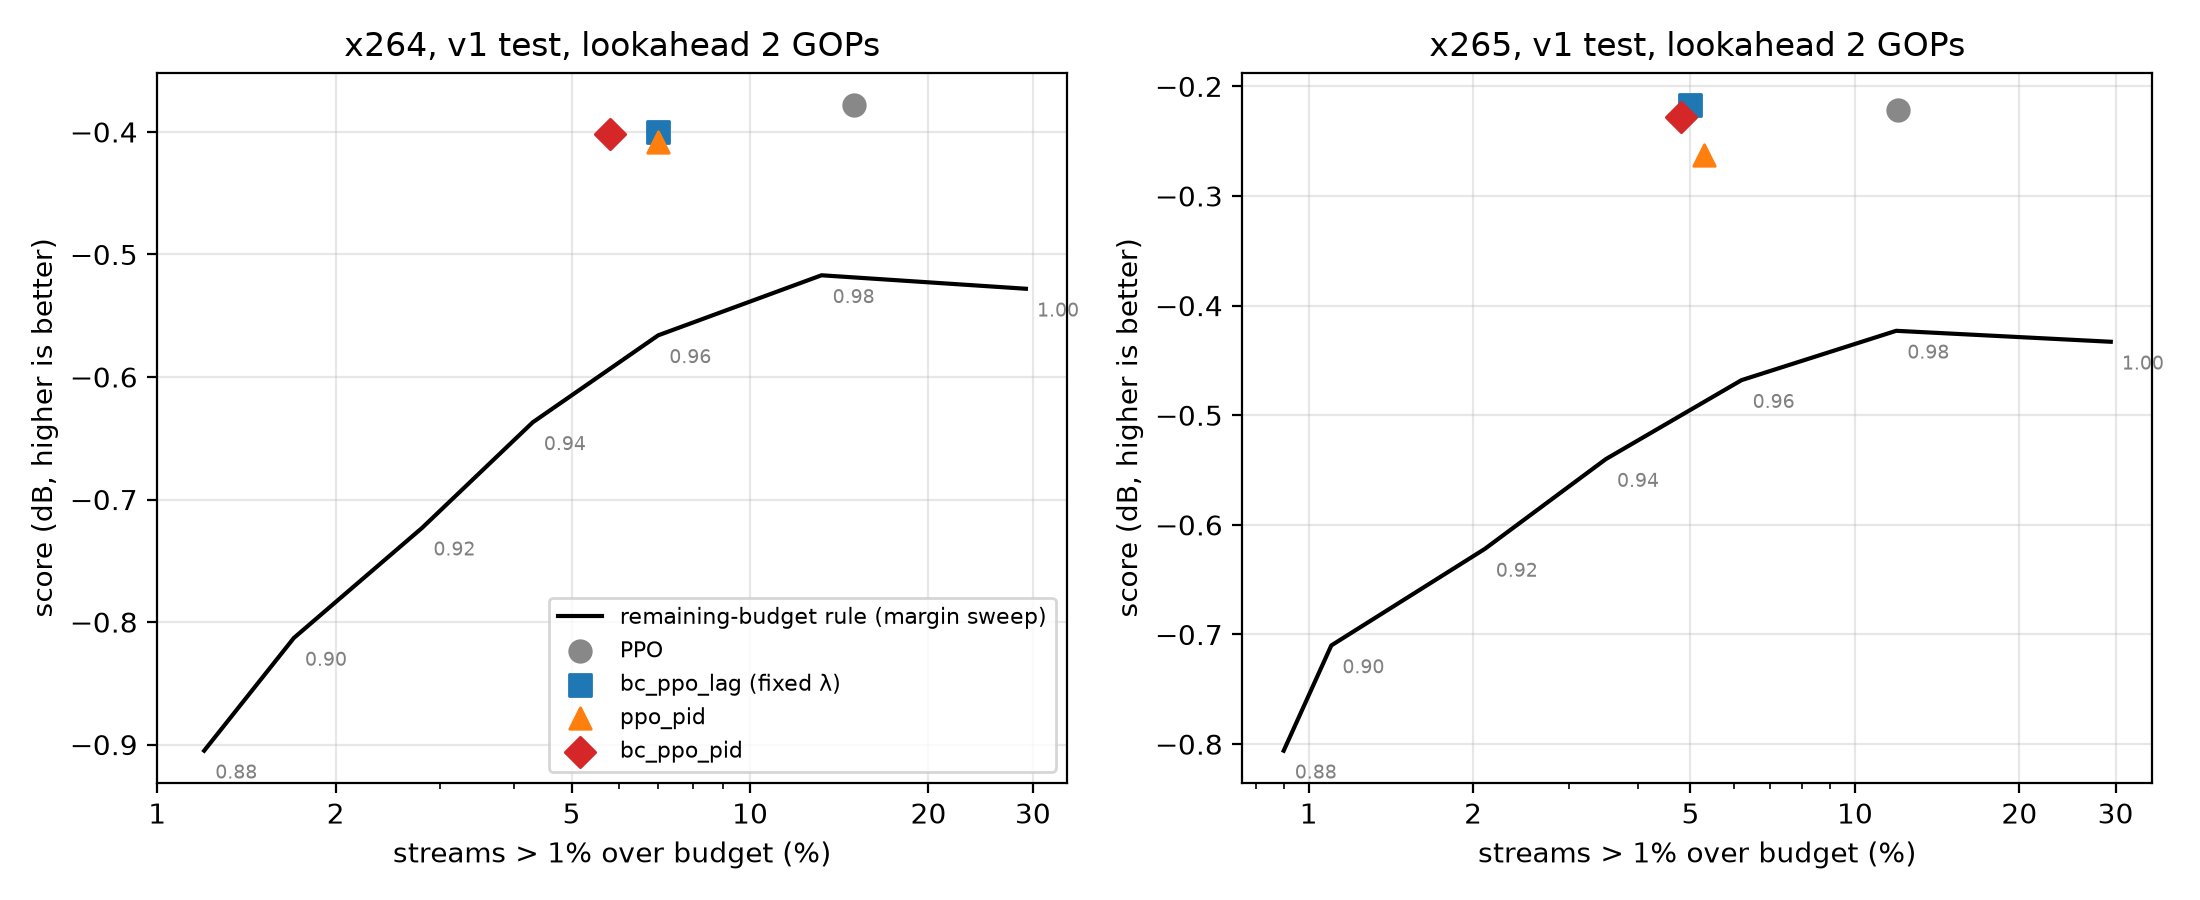
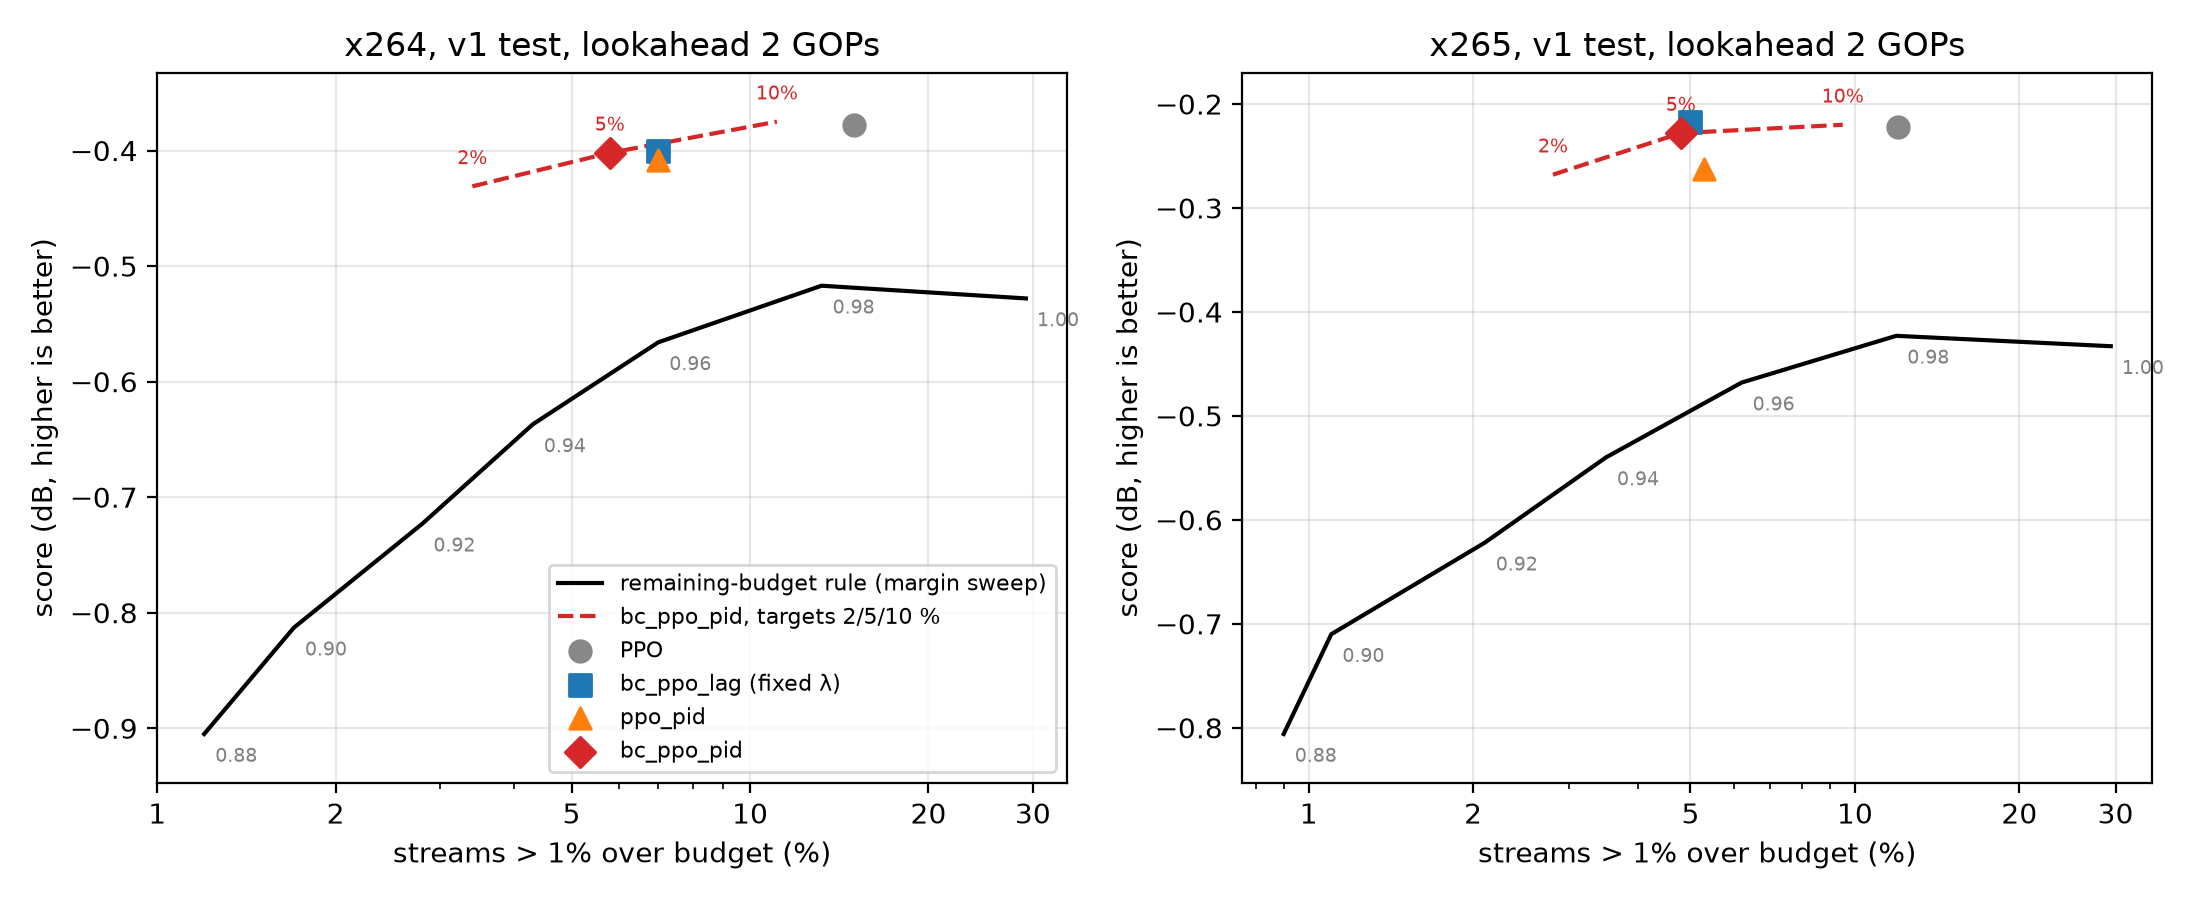
P4: PID target sweep on x265 + RL curves on both codecs

diff --git a/p4/plot_tradeoff.py b/p4/plot_tradeoff.py
@@ -8,11 +8,13 @@ DATA = {
         "rule": ([1.2, 1.7, 2.8, 4.3, 7.0, 13.2, 29.2], [-0.905, -0.813, -0.723, -0.637, -0.566, -0.517, -0.528]),
         "points": {"PPO": (15, -0.378), "bc_ppo_lag (fixed λ)": (7, -0.400),
                    "ppo_pid": (7, -0.408), "bc_ppo_pid": (5.8, -0.402)},
+        "pid_curve": ([3.4, 5.8, 11.1], [-0.431, -0.402, -0.375]),
     },
     "x265": {
         "rule": ([0.9, 1.1, 2.1, 3.5, 6.2, 11.9, 29.4], [-0.806, -0.710, -0.622, -0.540, -0.468, -0.423, -0.433]),
         "points": {"PPO": (12, -0.222), "bc_ppo_lag (fixed λ)": (5, -0.217),
                    "ppo_pid": (5.3, -0.263), "bc_ppo_pid": (4.8, -0.228)},
+        "pid_curve": ([2.8, 4.8, 9.5], [-0.268, -0.228, -0.220]),
     },
 }
 MARGINS = [0.88, 0.90, 0.92, 0.94, 0.96, 0.98, 1.00]
@@ -23,6 +25,11 @@ fig, axes = plt.subplots(1, 2, figsize=(11, 4.5))
 for ax, (codec, d) in zip(axes, DATA.items()):
     xs, ys = d["rule"]
     ax.plot(xs, ys, "-", color="black", lw=1.5, label="remaining-budget rule (margin sweep)")
+    if "pid_curve" in d:
+        px, py = d["pid_curve"]
+        ax.plot(px, py, "--", color="#d62728", lw=1.5, label="bc_ppo_pid, targets 2/5/10 %")
+        for x, y, t in zip(px, py, ("2%", "5%", "10%")):
+            ax.annotate(t, (x, y), textcoords="offset points", xytext=(0, 8), fontsize=7, color="#d62728", ha="center")
     for x, y, m in zip(xs, ys, MARGINS):
         ax.annotate(f"{m:.2f}", (x, y), textcoords="offset points", xytext=(4, -10), fontsize=7, color="gray")
     for name, (x, y) in d["points"].items():
@@ -34,6 +41,7 @@ for ax, (codec, d) in zip(axes, DATA.items()):
     ax.set_ylabel("score (dB, higher is better)")
     ax.set_title(f"{codec}, v1 test, lookahead 2 GOPs")
     ax.grid(alpha=0.3)
+    ax.margins(y=0.08)
 axes[0].legend(fontsize=8, loc="lower right")
 fig.tight_layout()
 fig.savefig("figures/tradeoff_L2.png", dpi=200)

diff --git a/p4/README.md b/p4/README.md
@@ -64,6 +64,12 @@ Full per-case output: `results/lofo_x264.txt`, `results/lofo_x265.txt`.
    ToS. Retuning improved the rule on the held-out film in only 10 of 16 cases; 5 of the 6 failures were tuned on
    ToS and tested on ED.
 
+5. **Target sweep (BC start, targets 2/5/10 %, L=2):** RL reaches 3.4 / 5.8 / 11.1 % over at −0.431 / −0.402 / −0.375 dB
+   on x264, and 2.8 / 4.8 / 9.5 % at −0.268 / −0.228 / −0.220 dB on x265. Cutting overspends to ~3 % costs RL
+   0.05–0.06 dB but the rule 0.16–0.21 dB, so RL's edge grows as the reliability requirement tightens (read off the
+   rule's margin curve: ≈ +0.14 → +0.29 dB on x264, ≈ +0.22 → +0.31 dB on x265). The 2 % target was not quite
+   reached (λ still rising at 2M steps); at 10 % the constraint barely binds (λ ≈ 0.17–0.2).
+
 ### Caveats
 - Only 2 films, 6 segments each, so the CIs are wide.
 - `ed_s*` / `tos_s*` clips are in v1's **test** split, so these films are not "unseen" in the sense of being outside
